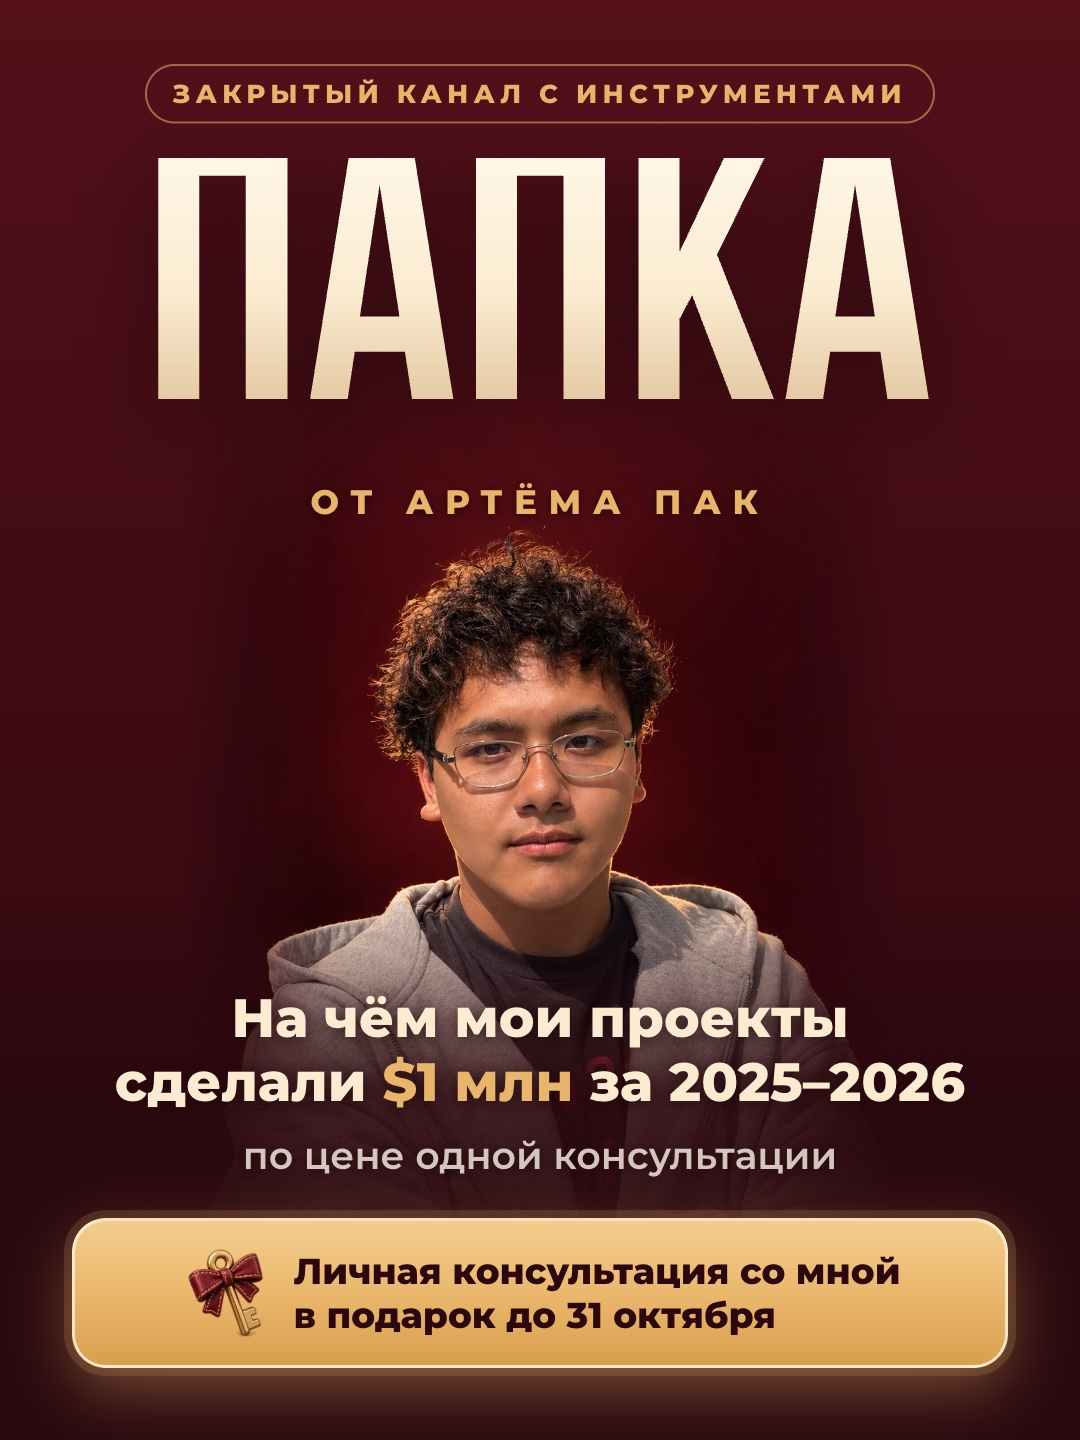
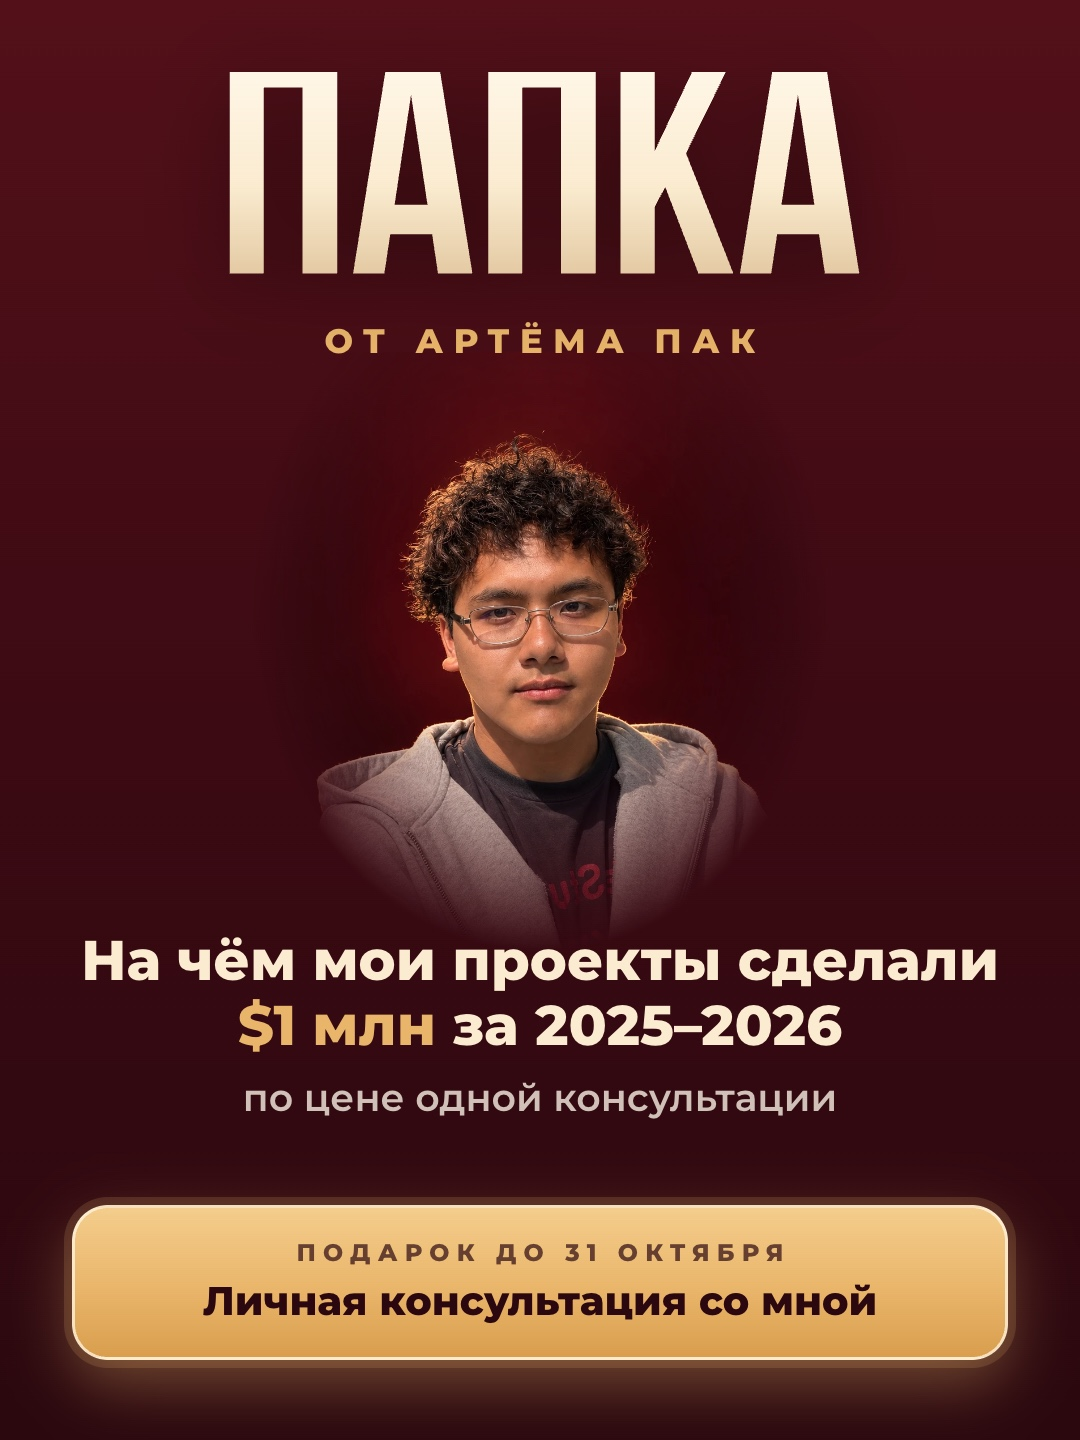
Баннер 3:4: ровная сетка по центру, фото без наложения текста

Changed region(s): [[0.0611, 0.0312, 0.9472, 0.9688], [0.275, 0.3438, 0.3361, 0.375]]

diff --git a/promo/banner-papka-3x4.html b/promo/banner-papka-3x4.html
@@ -3,9 +3,10 @@
 <head>
 <meta charset="utf-8">
 <title>Баннер ПАПКА 3:4</title>
-<!-- Баннер к посту про ПАПКУ: 1080×1440 (3:4). Картинка снимается скриншотом этой страницы в окне 1080×1440. -->
+<!-- Баннер к посту про ПАПКУ: 1080×1440 (3:4). Картинка снимается скриншотом этой страницы в окне 1080×1440.
+     Три зоны без наложения: название сверху, фото посередине, текст и подарок снизу. Всё по центру. -->
 <link rel="preconnect" href="https://fonts.googleapis.com">
-<link href="https://fonts.googleapis.com/css2?family=Montserrat:wght@500;600;700;800&display=swap" rel="stylesheet">
+<link href="https://fonts.googleapis.com/css2?family=Montserrat:wght@600;700;800&display=swap" rel="stylesheet">
 <style>
   @font-face { font-family: 'Bebas Neue'; font-weight: 700; src: url(../papka/fonts/BebasNeue-Bold.ttf) format('truetype'); }
   :root {
@@ -15,124 +16,71 @@
   * { box-sizing: border-box; margin: 0; padding: 0; }
   html, body { width: 1080px; height: 1440px; overflow: hidden; }
   body {
-    position: relative;
-    background: linear-gradient(180deg, var(--wine-top) 0%, var(--wine) 55%, var(--deep) 100%);
+    display: flex;
+    flex-direction: column;
+    align-items: center;
+    padding: 72px 72px 80px;
+    background: linear-gradient(180deg, var(--wine-top) 0%, var(--wine) 50%, var(--deep) 100%);
     color: var(--cream);
     font-family: 'Montserrat', system-ui, sans-serif;
+    text-align: center;
     -webkit-font-smoothing: antialiased;
     isolation: isolate;
   }
-  /* фото: по центру, верх и края растворяются в фоне */
-  .photo {
-    position: absolute;
-    left: 50%;
-    top: 330px;
-    /* ширина = ширине фото при этой высоте, тогда края уходят в прозрачность */
-    width: 711px;
-    height: 1110px;
-    transform: translateX(-50%);
-    z-index: -2;
-    background: url(../papka/img/hero.jpg) center top / auto 96% no-repeat;
-    -webkit-mask-image: linear-gradient(to bottom, transparent 0, #000 20%), linear-gradient(to right, transparent 0, #000 20%, #000 80%, transparent 100%);
-    -webkit-mask-composite: source-in;
-    mask-image: linear-gradient(to bottom, transparent 0, #000 20%), linear-gradient(to right, transparent 0, #000 20%, #000 80%, transparent 100%);
-    mask-composite: intersect;
-  }
-  /* затемнение снизу под текст; лицо остаётся открытым */
-  body::after {
-    content: '';
-    position: absolute;
-    inset: 0;
-    z-index: -1;
-    background: linear-gradient(180deg, rgba(42, 8, 14, 0) 0%, rgba(42, 8, 14, 0) 62%, rgba(42, 8, 14, .86) 76%, var(--deep) 92%);
-  }
-  .top { padding: 64px 72px 0; text-align: center; }
-  .eyebrow {
-    display: inline-block;
-    padding: 12px 26px;
-    border: 2px solid rgba(233, 181, 106, .55);
-    border-radius: 999px;
-    color: var(--gold);
-    font-size: 26px;
-    font-weight: 800;
-    letter-spacing: .2em;
-    text-transform: uppercase;
-  }
+  /* разрядка добавляет пробел после последней буквы; отступ слева на ту же величину возвращает текст в центр */
+  .spaced { letter-spacing: .3em; padding-left: .3em; text-transform: uppercase; }
+
   .title {
-    margin-top: 34px;
-    font: 700 372px/.8 'Bebas Neue', Impact, sans-serif;
-    letter-spacing: .01em;
+    font: 700 310px/.8 'Bebas Neue', Impact, sans-serif;
     background: linear-gradient(180deg, #FFF6E6 0%, var(--hero-ink) 45%, #D8B98C 100%);
     -webkit-background-clip: text;
     background-clip: text;
     color: transparent;
     filter: drop-shadow(0 14px 40px rgba(0, 0, 0, .4));
   }
-  .by {
-    margin-top: 26px;
-    color: var(--gold);
-    font-size: 34px;
-    font-weight: 800;
-    letter-spacing: .34em;
-    text-transform: uppercase;
-    text-shadow: 0 2px 12px rgba(30, 4, 9, .85);
+  .by { margin-top: 0; color: var(--gold); font-size: 34px; font-weight: 800; }
+
+  /* фото: голова и плечи, края и низ растворяются в фоне, текст на него не заходит */
+  .photo {
+    position: relative;
+    z-index: -1;
+    flex: none;
+    width: 580px;
+    height: 600px;
+    margin-top: -10px;
+    background: url(../papka/img/hero.jpg) center 30% / 580px auto no-repeat;
+    /* овал вокруг головы и плеч: у студийного фона нет прямых краёв */
+    -webkit-mask-image: radial-gradient(ellipse 50% 58% at 50% 42%, #000 50%, transparent 100%);
+    mask-image: radial-gradient(ellipse 50% 58% at 50% 42%, #000 50%, transparent 100%);
   }
-  .bottom {
-    position: absolute;
-    left: 72px;
-    right: 72px;
-    bottom: 72px;
-    text-align: center;
-  }
-  .lead {
-    color: var(--hero-ink);
-    font-size: 54px;
-    font-weight: 800;
-    line-height: 1.18;
-    text-wrap: balance;
-    text-shadow: 0 3px 18px rgba(30, 4, 9, .85);
-  }
-  .lead b { color: var(--gold); font-weight: 800; }
-  .price {
-    margin-top: 18px;
-    color: rgba(248, 239, 226, .82);
-    font-size: 38px;
-    font-weight: 600;
-    text-shadow: 0 2px 12px rgba(30, 4, 9, .85);
-  }
+
+  .lead { margin-top: -24px; color: var(--hero-ink); font-size: 56px; font-weight: 800; line-height: 1.16; }
+  .lead b { color: var(--gold); }
+  .price { margin-top: 16px; color: rgba(248, 239, 226, .8); font-size: 38px; font-weight: 600; }
+
   .gift {
-    display: flex;
-    align-items: center;
-    justify-content: center;
-    gap: 22px;
-    margin-top: 40px;
-    padding: 26px 30px;
+    margin-top: auto;
+    width: 100%;
+    padding: 30px 32px 32px;
     border: 3px solid rgba(255, 246, 227, .75);
-    border-radius: 34px;
+    border-radius: 36px;
     background: linear-gradient(180deg, var(--gold-hi), var(--gold) 55%, #D99E4E);
-    box-shadow: 0 0 0 8px rgba(233, 181, 106, .16), 0 22px 60px rgba(233, 181, 106, .4);
+    box-shadow: 0 0 0 8px rgba(233, 181, 106, .16), 0 22px 60px rgba(233, 181, 106, .38);
     color: var(--ink);
-    text-align: left;
   }
-  .gift img { flex: none; width: 92px; height: 92px; }
-  .gift p { font-size: 36px; font-weight: 800; line-height: 1.22; white-space: nowrap; }
-  .gift span { display: block; margin-top: 4px; font-size: 27px; font-weight: 700; opacity: .78; }
+  .gift__tag { font-size: 24px; font-weight: 800; opacity: .7; }
+  .gift p + p { margin-top: 10px; font-size: 40px; font-weight: 800; line-height: 1.2; }
 </style>
 </head>
 <body>
+  <h1 class="title">ПАПКА</h1>
+  <p class="by spaced">от&nbsp;Артёма Пак</p>
   <div class="photo"></div>
-  <div class="top">
-    <p class="eyebrow">Закрытый канал с&nbsp;инструментами</p>
-    <h1 class="title">ПАПКА</h1>
-    <p class="by">от&nbsp;Артёма Пак</p>
-  </div>
-  <div class="bottom">
-    <p class="lead">На&nbsp;чём мои проекты сделали <b>$1&nbsp;млн</b> за&nbsp;2025–2026</p>
-    <p class="price">по&nbsp;цене одной консультации</p>
-    <div class="gift">
-      <img src="../papka/img/icons/dostup.png" alt="">
-      <p>Личная консультация со&nbsp;мной<br>в&nbsp;подарок до&nbsp;31&nbsp;октября</p>
-    </div>
+  <p class="lead">На&nbsp;чём мои проекты сделали<br><b>$1&nbsp;млн</b> за&nbsp;2025–2026</p>
+  <p class="price">по&nbsp;цене одной консультации</p>
+  <div class="gift">
+    <p class="gift__tag spaced">Подарок до&nbsp;31&nbsp;октября</p>
+    <p>Личная консультация со&nbsp;мной</p>
   </div>
 </body>
 </html>
